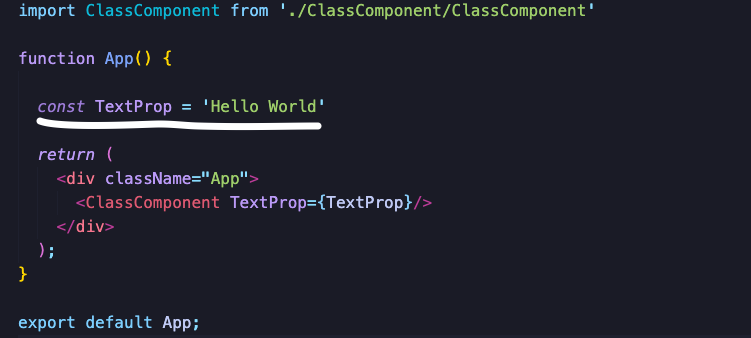
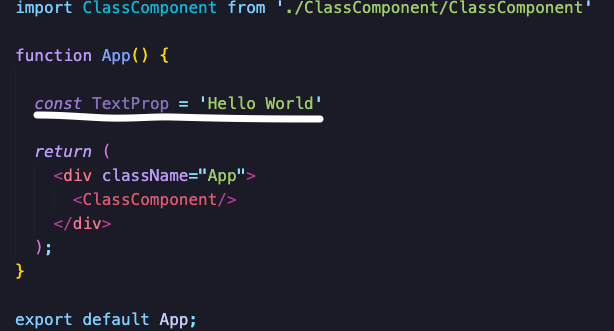
added pass-props.png to Introduction To Props

diff --git a/source/chapter2/index.rst b/source/chapter2/index.rst
@@ -126,7 +126,11 @@ Introduction to props
 
     .. image:: prop-variable.*
 
+* Once this is done we can pass the variable as a prop into the ClassComponent with the following underlined syntax.
 
+    .. image:: passing-prop.*
+
+* We essentially name the prop and set it equal to its JSX value inside curly braces.
 
 
 
